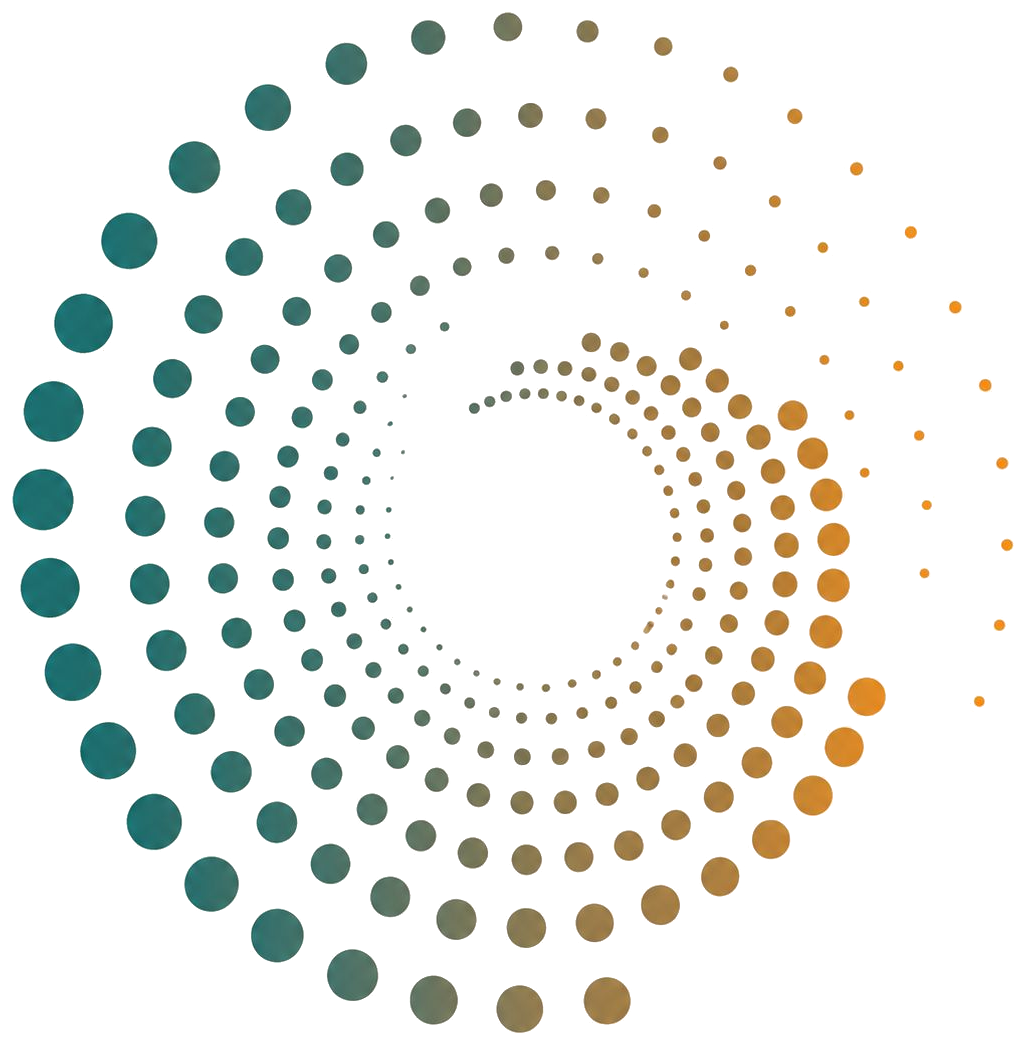
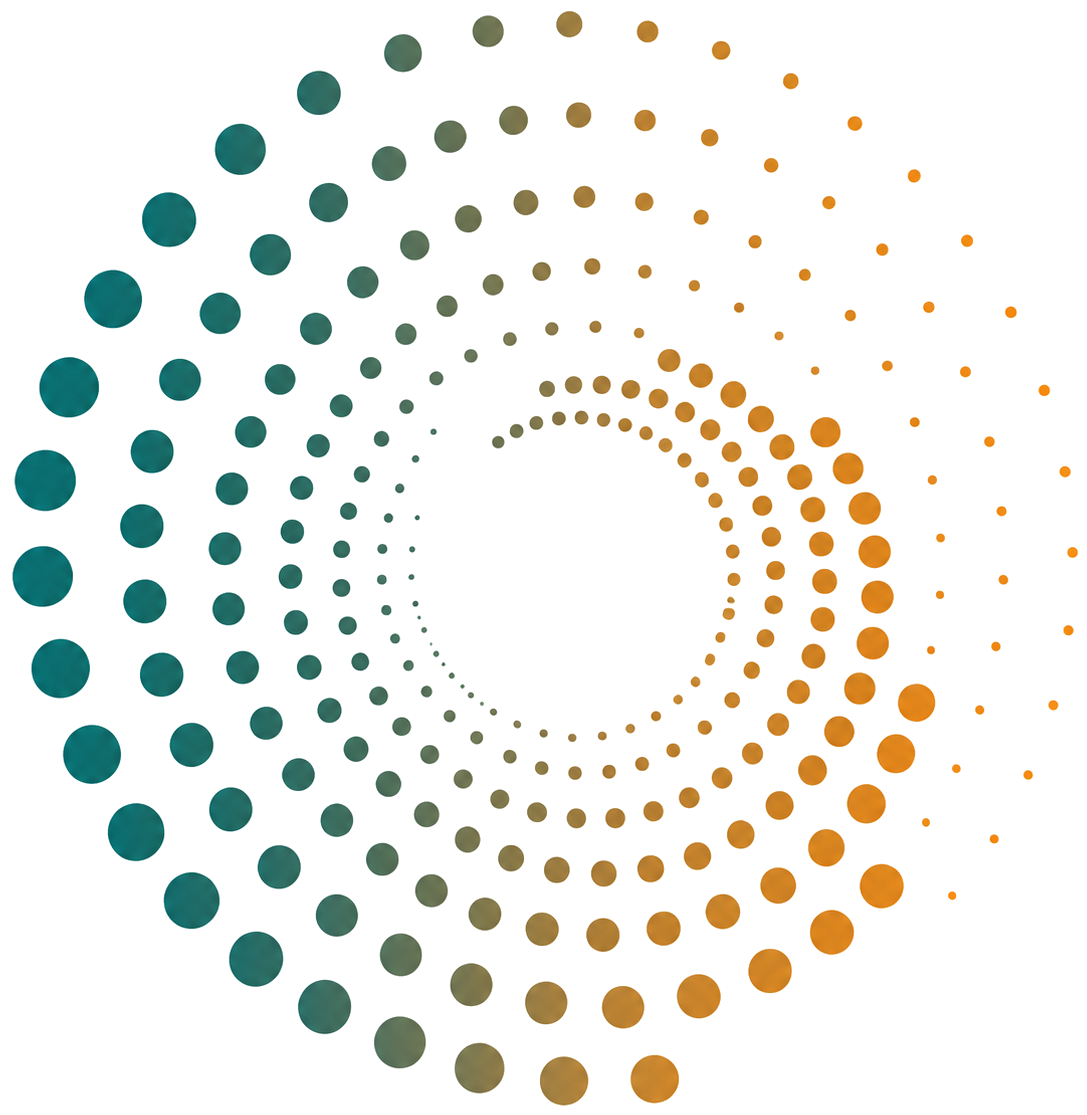
Replace spiral with new higher-res version (cleaned from PSD)

diff --git a/styles/main.css b/styles/main.css
@@ -292,7 +292,7 @@ section { position: relative; padding-block: clamp(72px, 9vw, 144px); }
 /* Decorative spiral motif kept, dimmed against the photo */
 .hero__bg {
   position: absolute; inset: 0;
-  background-image: url("../assets/img/spirale-color.png");
+  background-image: url("../assets/img/spirale-color.png?v=2");
   background-repeat: no-repeat;
   background-position: 108% 38%;
   background-size: 70vh auto;
@@ -518,7 +518,7 @@ section { position: relative; padding-block: clamp(72px, 9vw, 144px); }
   width: 90vh; height: 90vh;
   top: 50%; left: -25vh;
   transform: translateY(-50%);
-  background-image: url("../assets/img/spirale-color.png");
+  background-image: url("../assets/img/spirale-color.png?v=2");
   background-size: contain;
   background-repeat: no-repeat;
   opacity: 0.5;
@@ -683,7 +683,7 @@ section { position: relative; padding-block: clamp(72px, 9vw, 144px); }
   position: absolute;
   inset: auto -8% -30% auto;
   width: 90vh; height: 90vh;
-  background-image: url("../assets/img/spirale-color.png");
+  background-image: url("../assets/img/spirale-color.png?v=2");
   background-size: contain;
   background-repeat: no-repeat;
   opacity: 0.50;

diff --git a/index.html b/index.html
@@ -49,7 +49,7 @@
   <link rel="preconnect" href="https://fonts.gstatic.com" crossorigin />
   <link rel="stylesheet" href="https://fonts.googleapis.com/css2?family=DM+Sans:wght@300;400;500;600&family=Fraunces:ital,opsz,wght@0,9..144,300;0,9..144,400;0,9..144,500;1,9..144,300;1,9..144,400&display=swap" />
 
-  <link rel="stylesheet" href="styles/main.css?v=23" />
+  <link rel="stylesheet" href="styles/main.css?v=24" />
   <link rel="icon" type="image/svg+xml" href="assets/svg/mark.svg" />
   <script>
     // Lock body before paint so the loader covers the page from frame 1.
